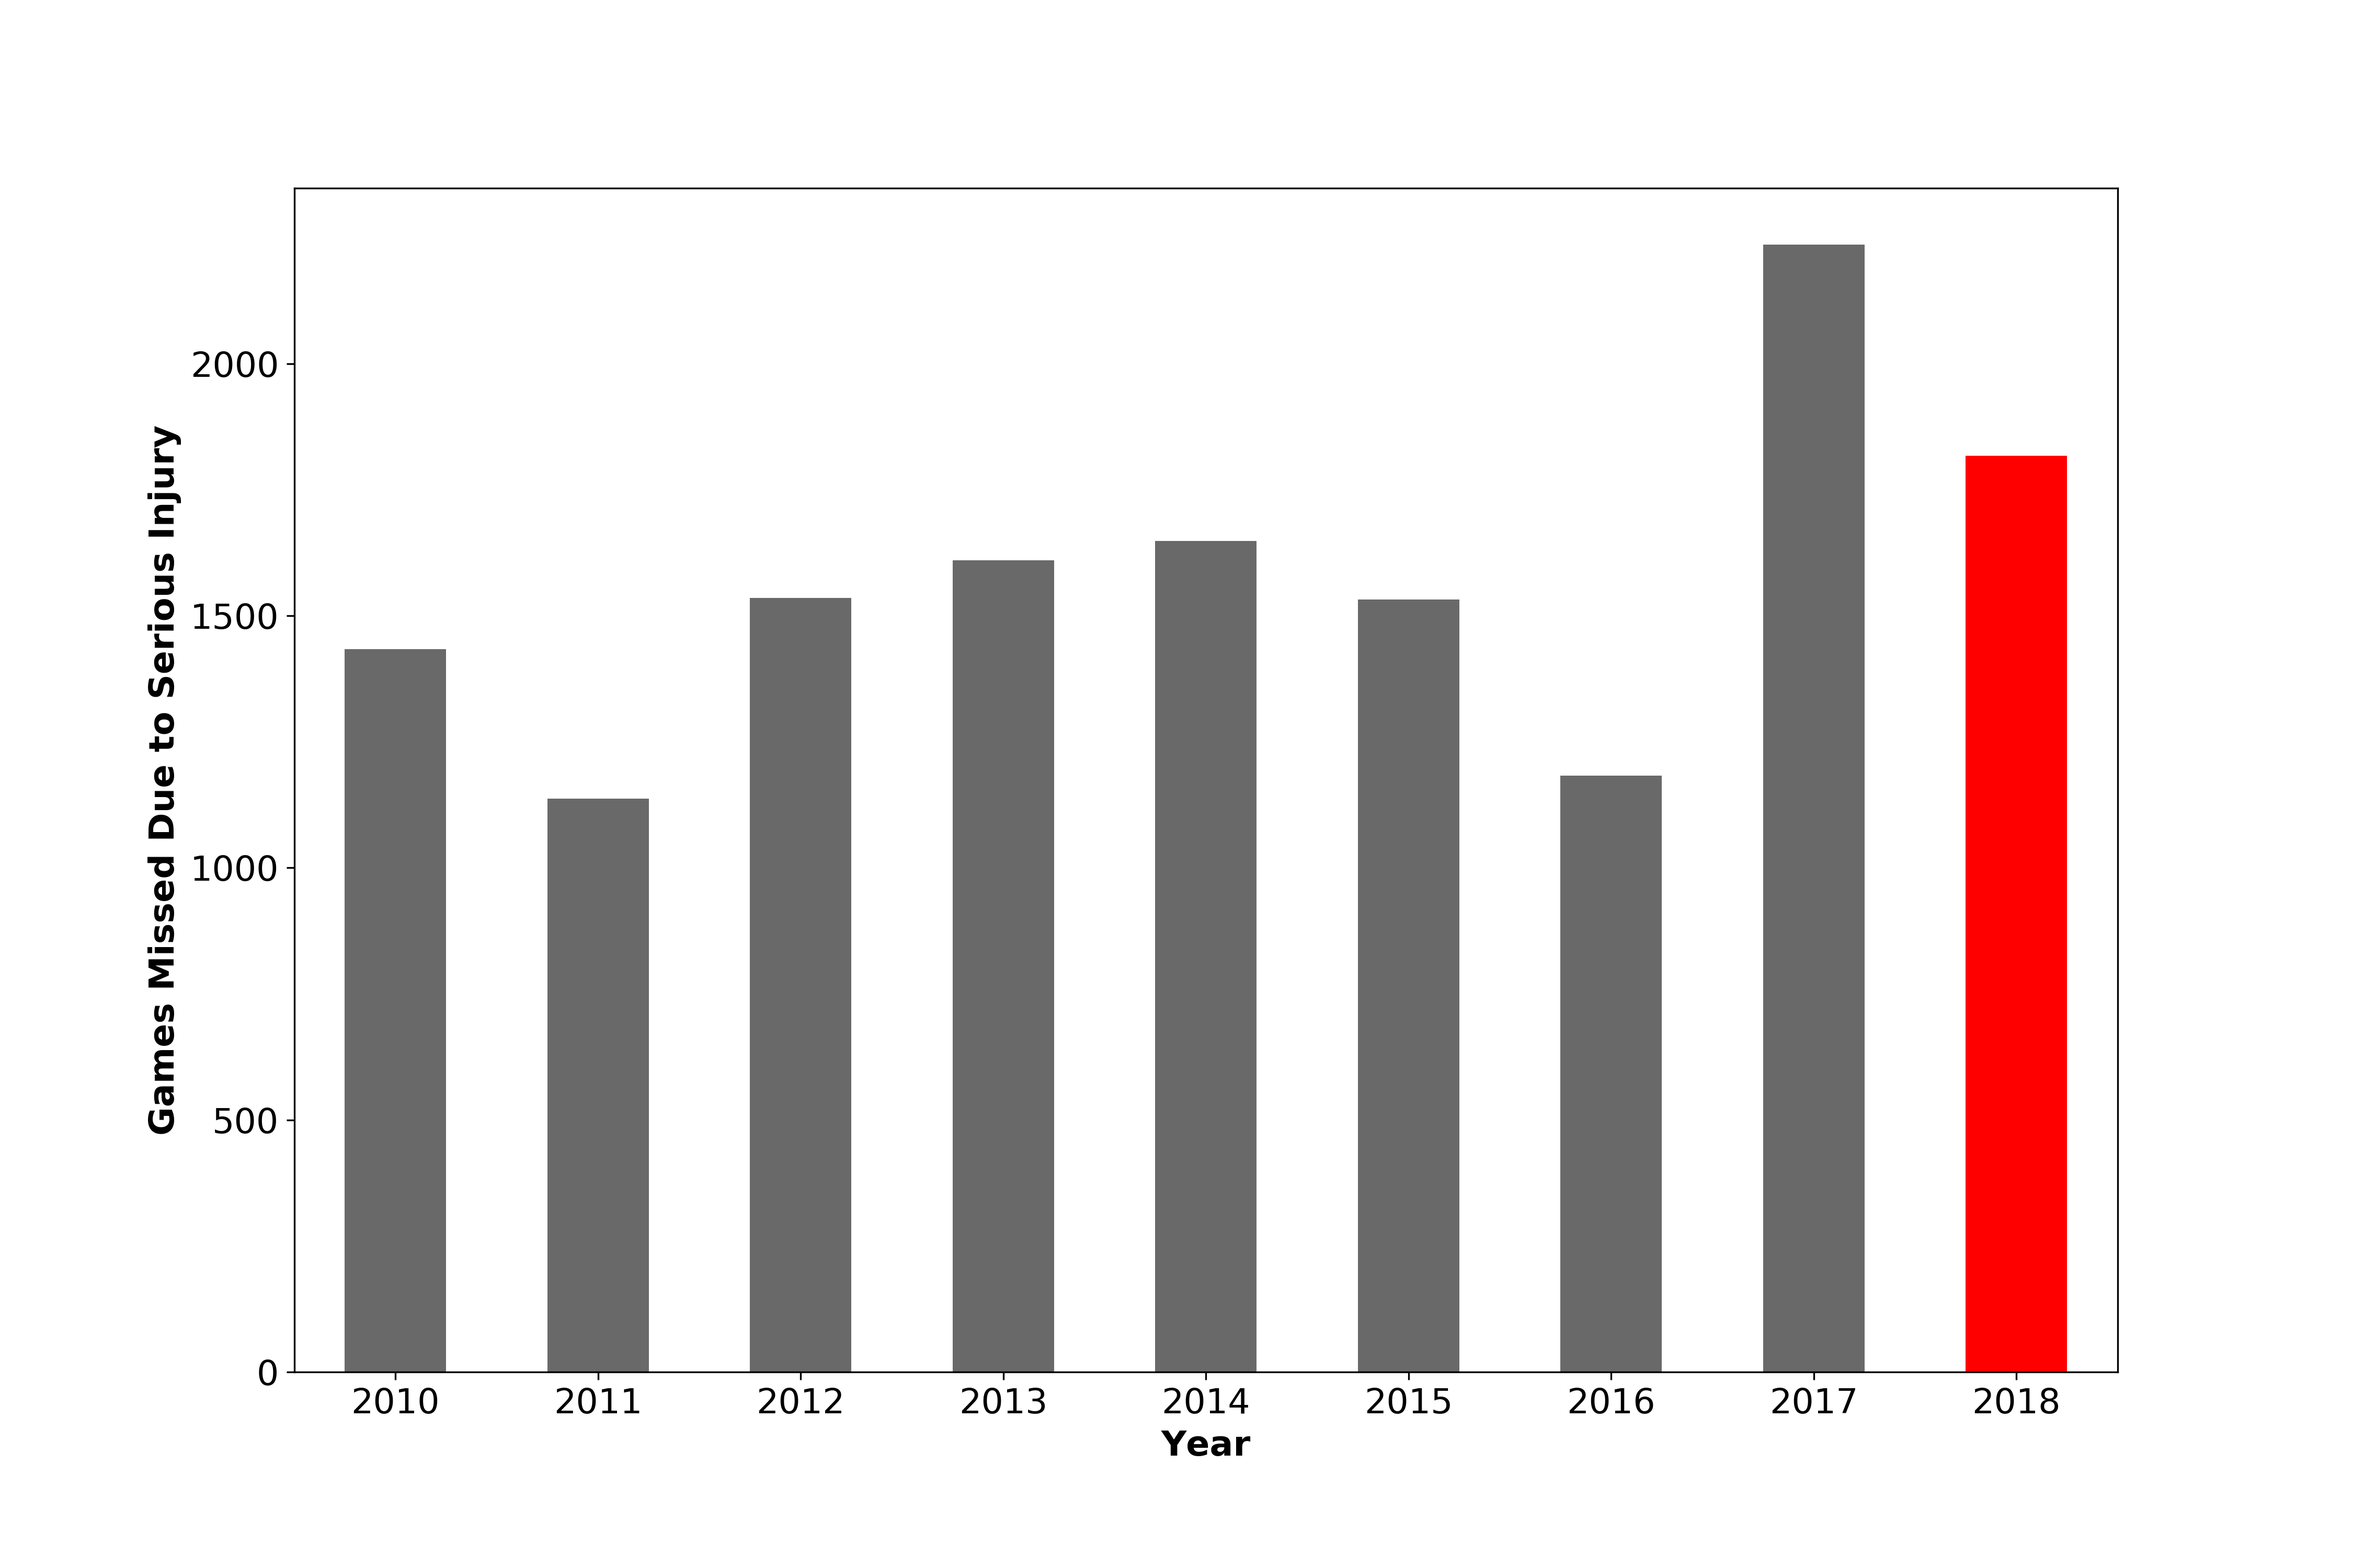
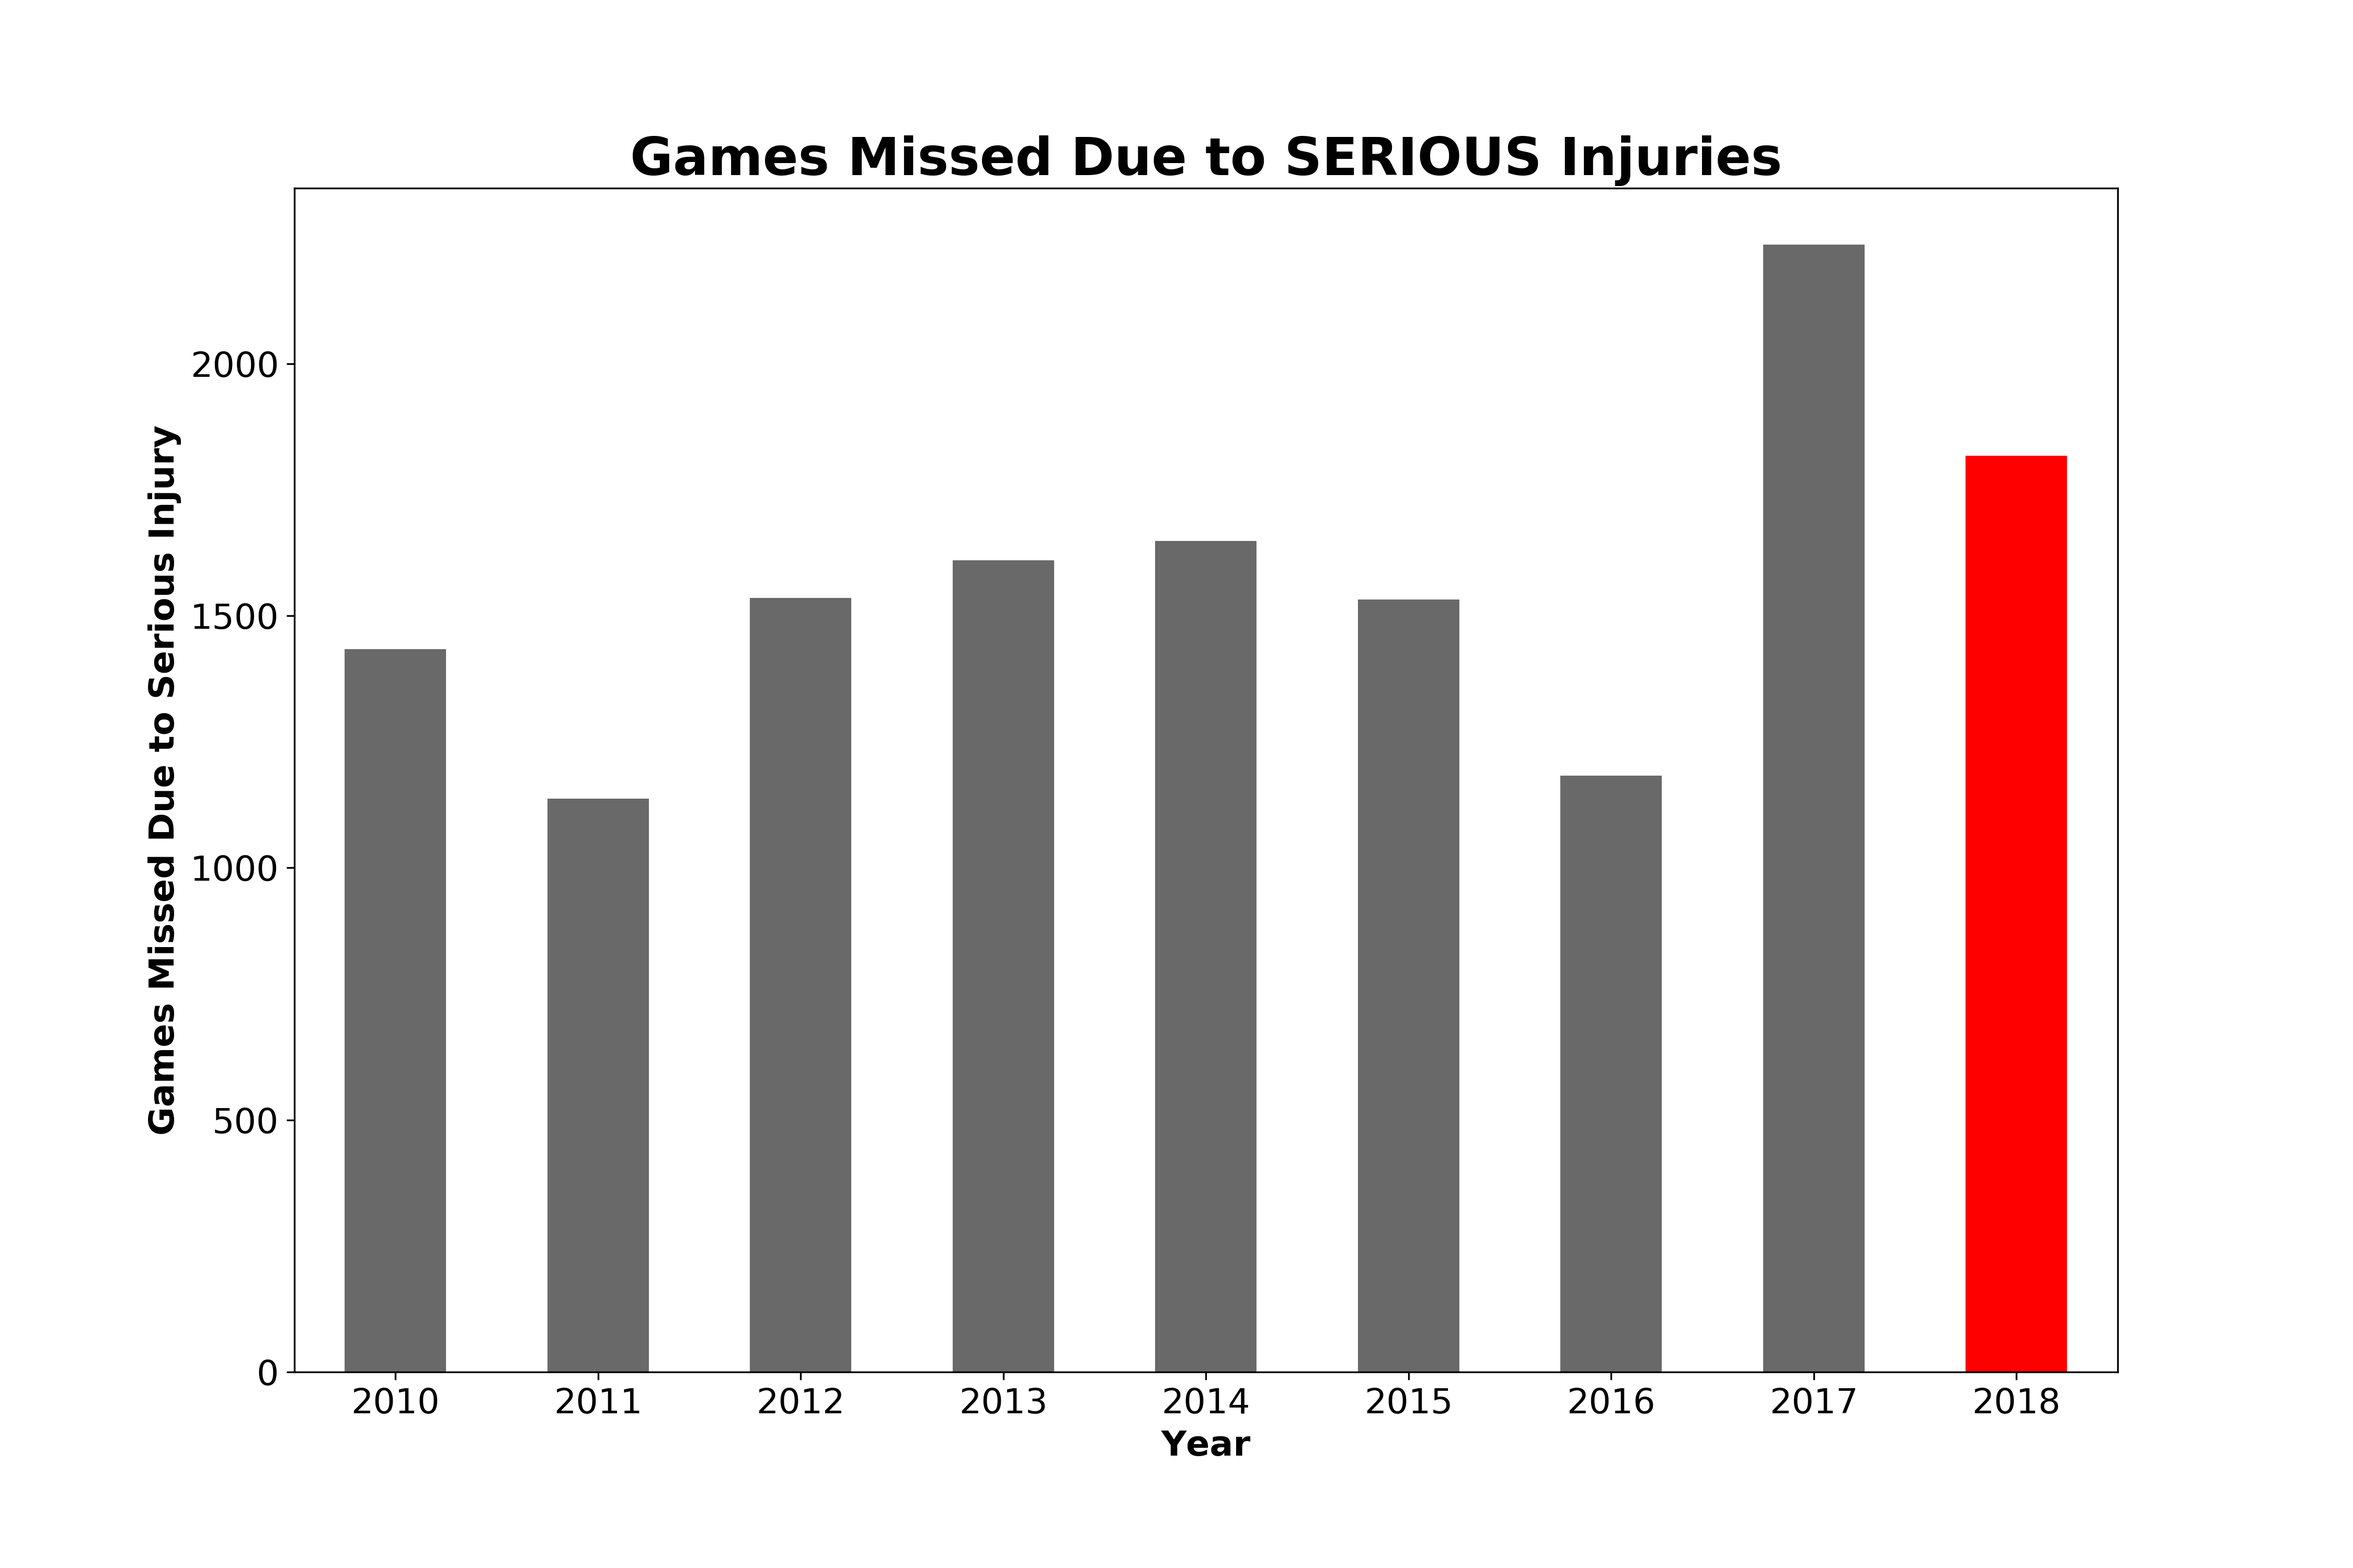
updated plot

Changed region(s): [[0.2489, 0.062, 0.7778, 0.124]]

diff --git a/src/d04_visualization/plot_bar_missed_games_serious_injuries.py b/src/d04_visualization/plot_bar_missed_games_serious_injuries.py
@@ -78,6 +78,10 @@ for tick in ax.get_yticks():
     
 ax.set_yticklabels(y_tick_labels, fontsize = 16)
 
+#plot title
+ax.set_title('Games Missed Due to SERIOUS Injuries', fontsize = 24, weight= 'bold')
+
+
 ## Set legend properties
 #ax.legend(list(data.columns), fontsize = 16)
 #ax.legend(loc='best')
